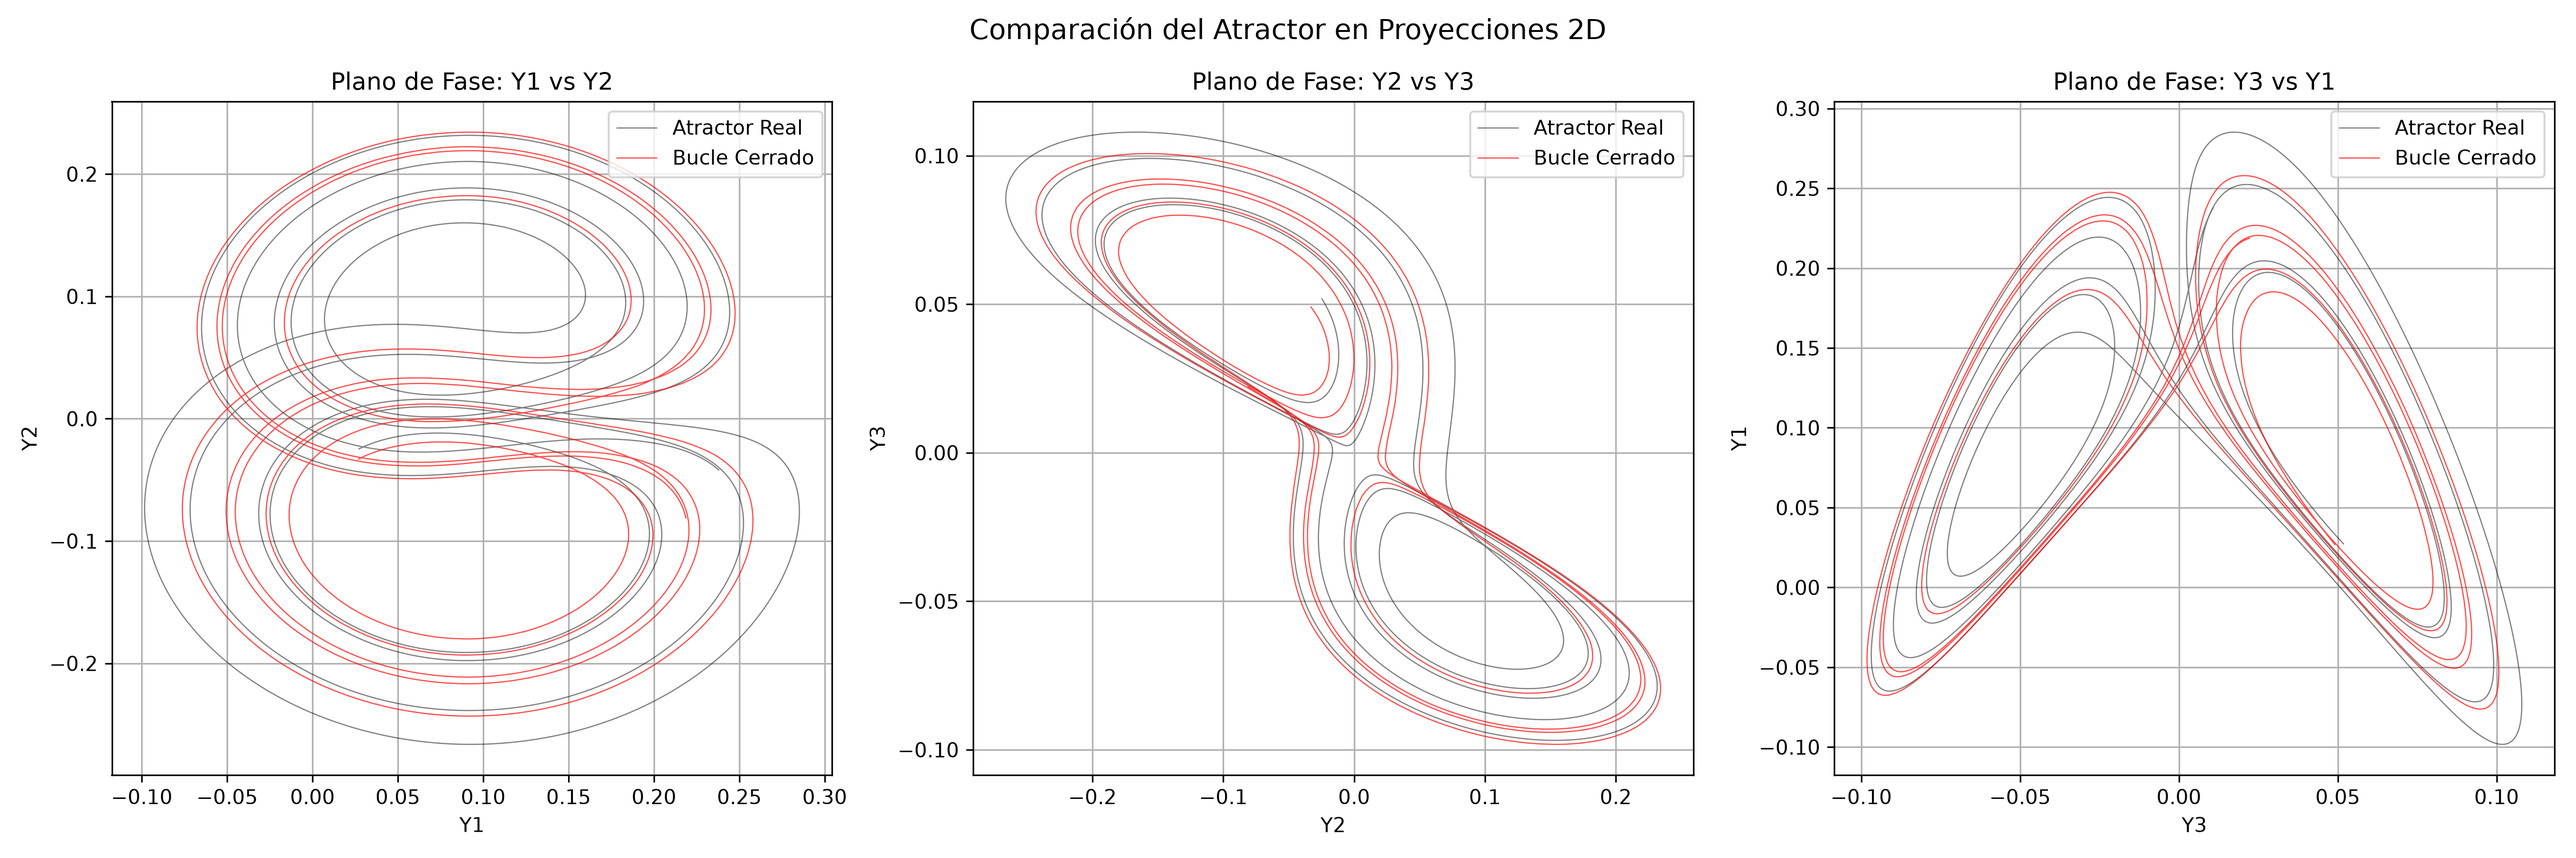
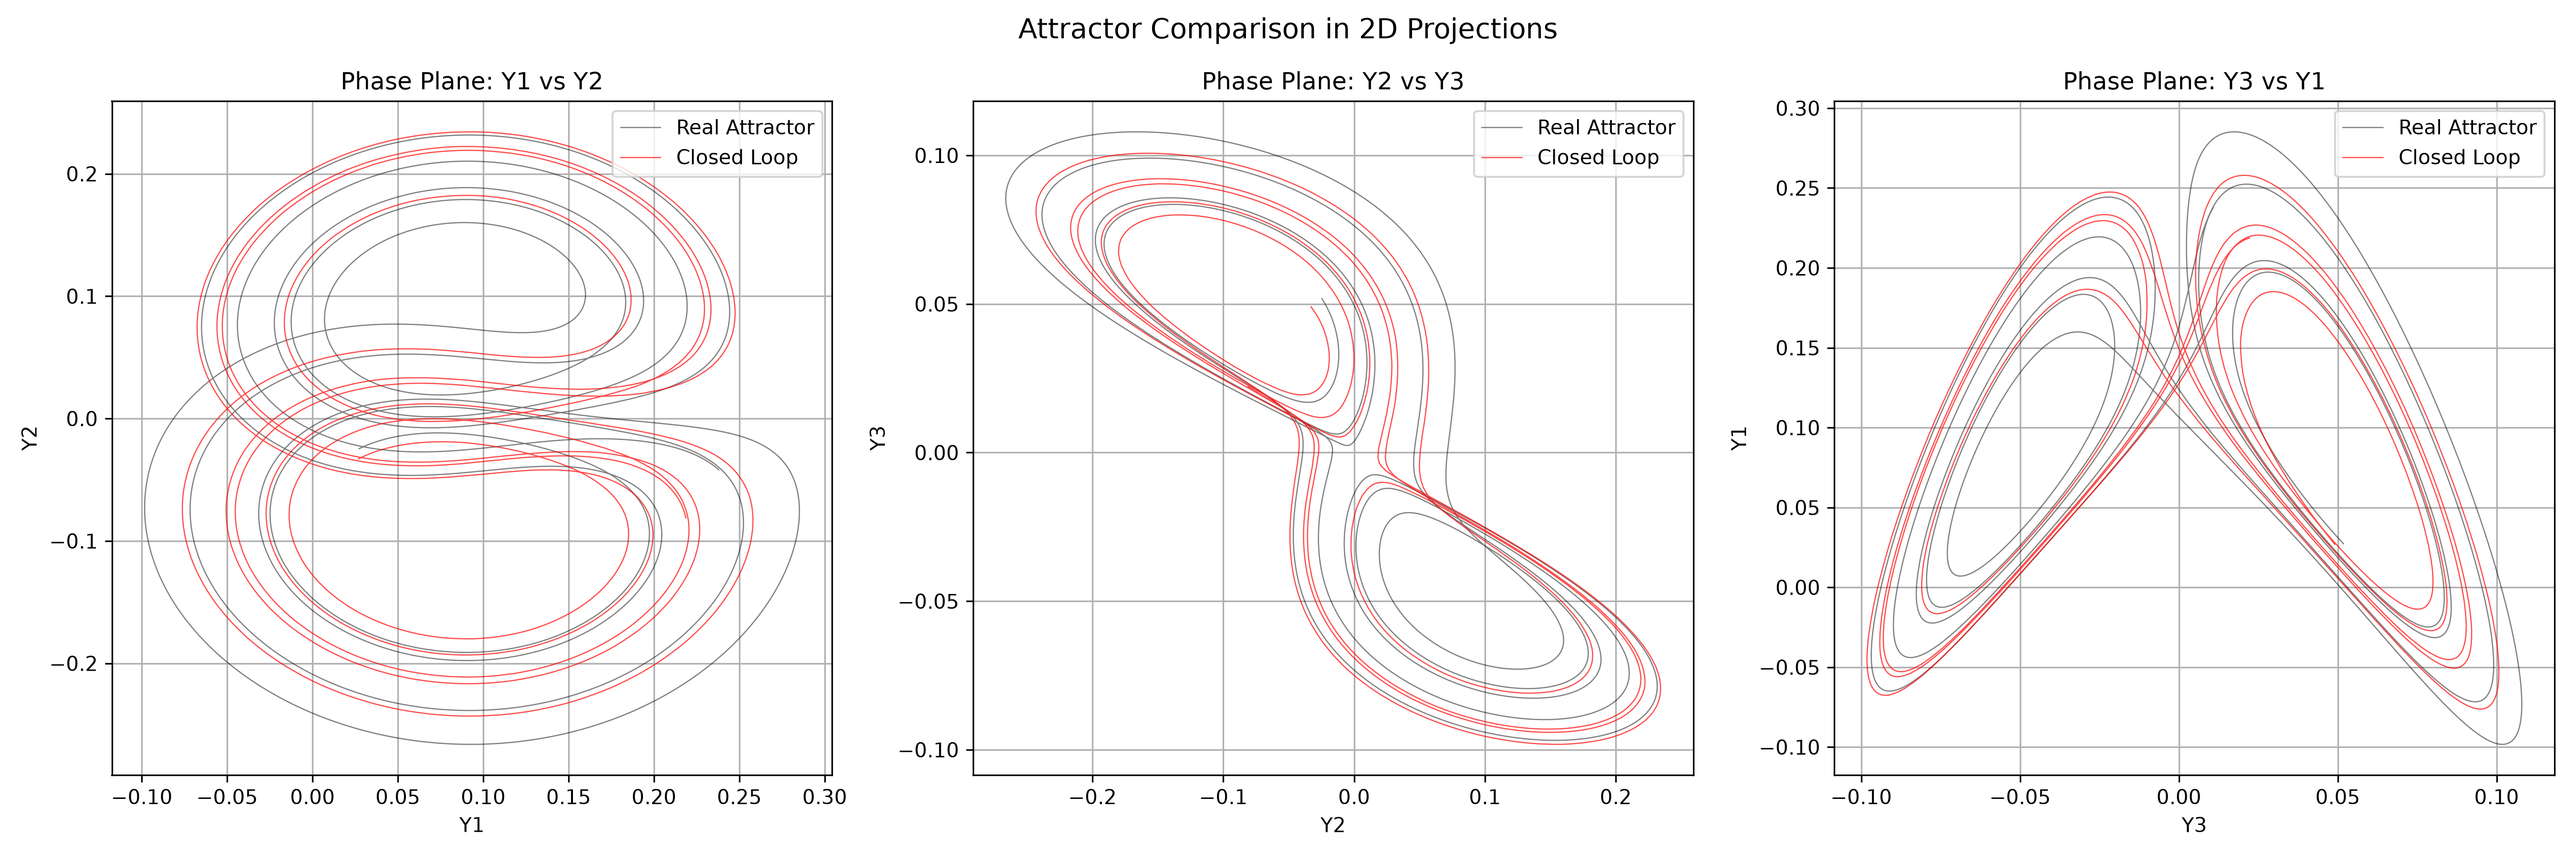
Update: English Plots and Comments

diff --git a/val/closed_loop_attractor.py b/val/closed_loop_attractor.py
@@ -2,41 +2,41 @@ import torch
 import matplotlib.pyplot as plt
 
 def plot_attractor_2d_projections():
-    print("Cargando el historial de simulación...")
+    print("Loading simulation history...")
     data = torch.load('checkpoints/simulation_history_100k.pt', map_location='cpu')
     
-    history_y = data['history_y'].numpy()  # Forma: [n_steps, n_ensemble, 3]
-    Y_true = data['Y_true'].numpy()        # Forma: [n_steps, 3]
+    history_y = data['history_y'].numpy()  # Shape: [n_steps, n_ensemble, 3]
+    Y_true = data['Y_true'].numpy()        # Shape: [n_steps, 3]
     
-    # Media del ensamble para las variables Y
-    mean_y = history_y.mean(axis=1)        # Forma: [n_steps, 3]
+    # Ensemble mean for Y variables
+    mean_y = history_y.mean(axis=1)        # Shape: [n_steps, 3]
     
-    print("Generando proyecciones 2D del atractor...")
+    print("Generating 2D projections of the attractor...")
     fig, axes = plt.subplots(1, 3, figsize=(18, 6))
     
-    # Pares de variables para los planos de fase
+    # Variable pairs for phase planes
     pairs = [(0, 1), (1, 2), (2, 0)]
     labels = [('Y1', 'Y2'), ('Y2', 'Y3'), ('Y3', 'Y1')]
     
     for ax, (i, j), (lbl_i, lbl_j) in zip(axes, pairs, labels):
-        # Graficar el atractor real en el plano 2D
+        # Plot real attractor in the 2D plane
         ax.plot(Y_true[:, i], Y_true[:, j], 
-                color='black', alpha=0.5, linewidth=0.6, label='Atractor Real')
+                color='black', alpha=0.5, linewidth=0.6, label='Real Attractor')
         
-        # Graficar la simulación en bucle cerrado
+        # Plot closed-loop simulation
         ax.plot(mean_y[:, i], mean_y[:, j], 
-                color='red', alpha=0.7, linewidth=0.6, label='Bucle Cerrado')
+                color='red', alpha=0.7, linewidth=0.6, label='Closed Loop')
         
         ax.set_xlabel(lbl_i)
         ax.set_ylabel(lbl_j)
-        ax.set_title(f'Plano de Fase: {lbl_i} vs {lbl_j}')
+        ax.set_title(f'Phase Plane: {lbl_i} vs {lbl_j}')
         ax.legend(loc='upper right')
         ax.grid(True)
         
-    plt.suptitle('Comparación del Atractor en Proyecciones 2D', fontsize=14)
+    plt.suptitle('Attractor Comparison in 2D Projections', fontsize=14)
     plt.tight_layout()
     plt.savefig('media/closed_loop_attractor_2d.png', dpi=300)
-    print("¡Gráficas guardadas en media/closed_loop_attractor_2d.png!")
+    print("Plots saved to media/closed_loop_attractor_2d.png!")
     plt.show()
 
 if __name__ == '__main__':
